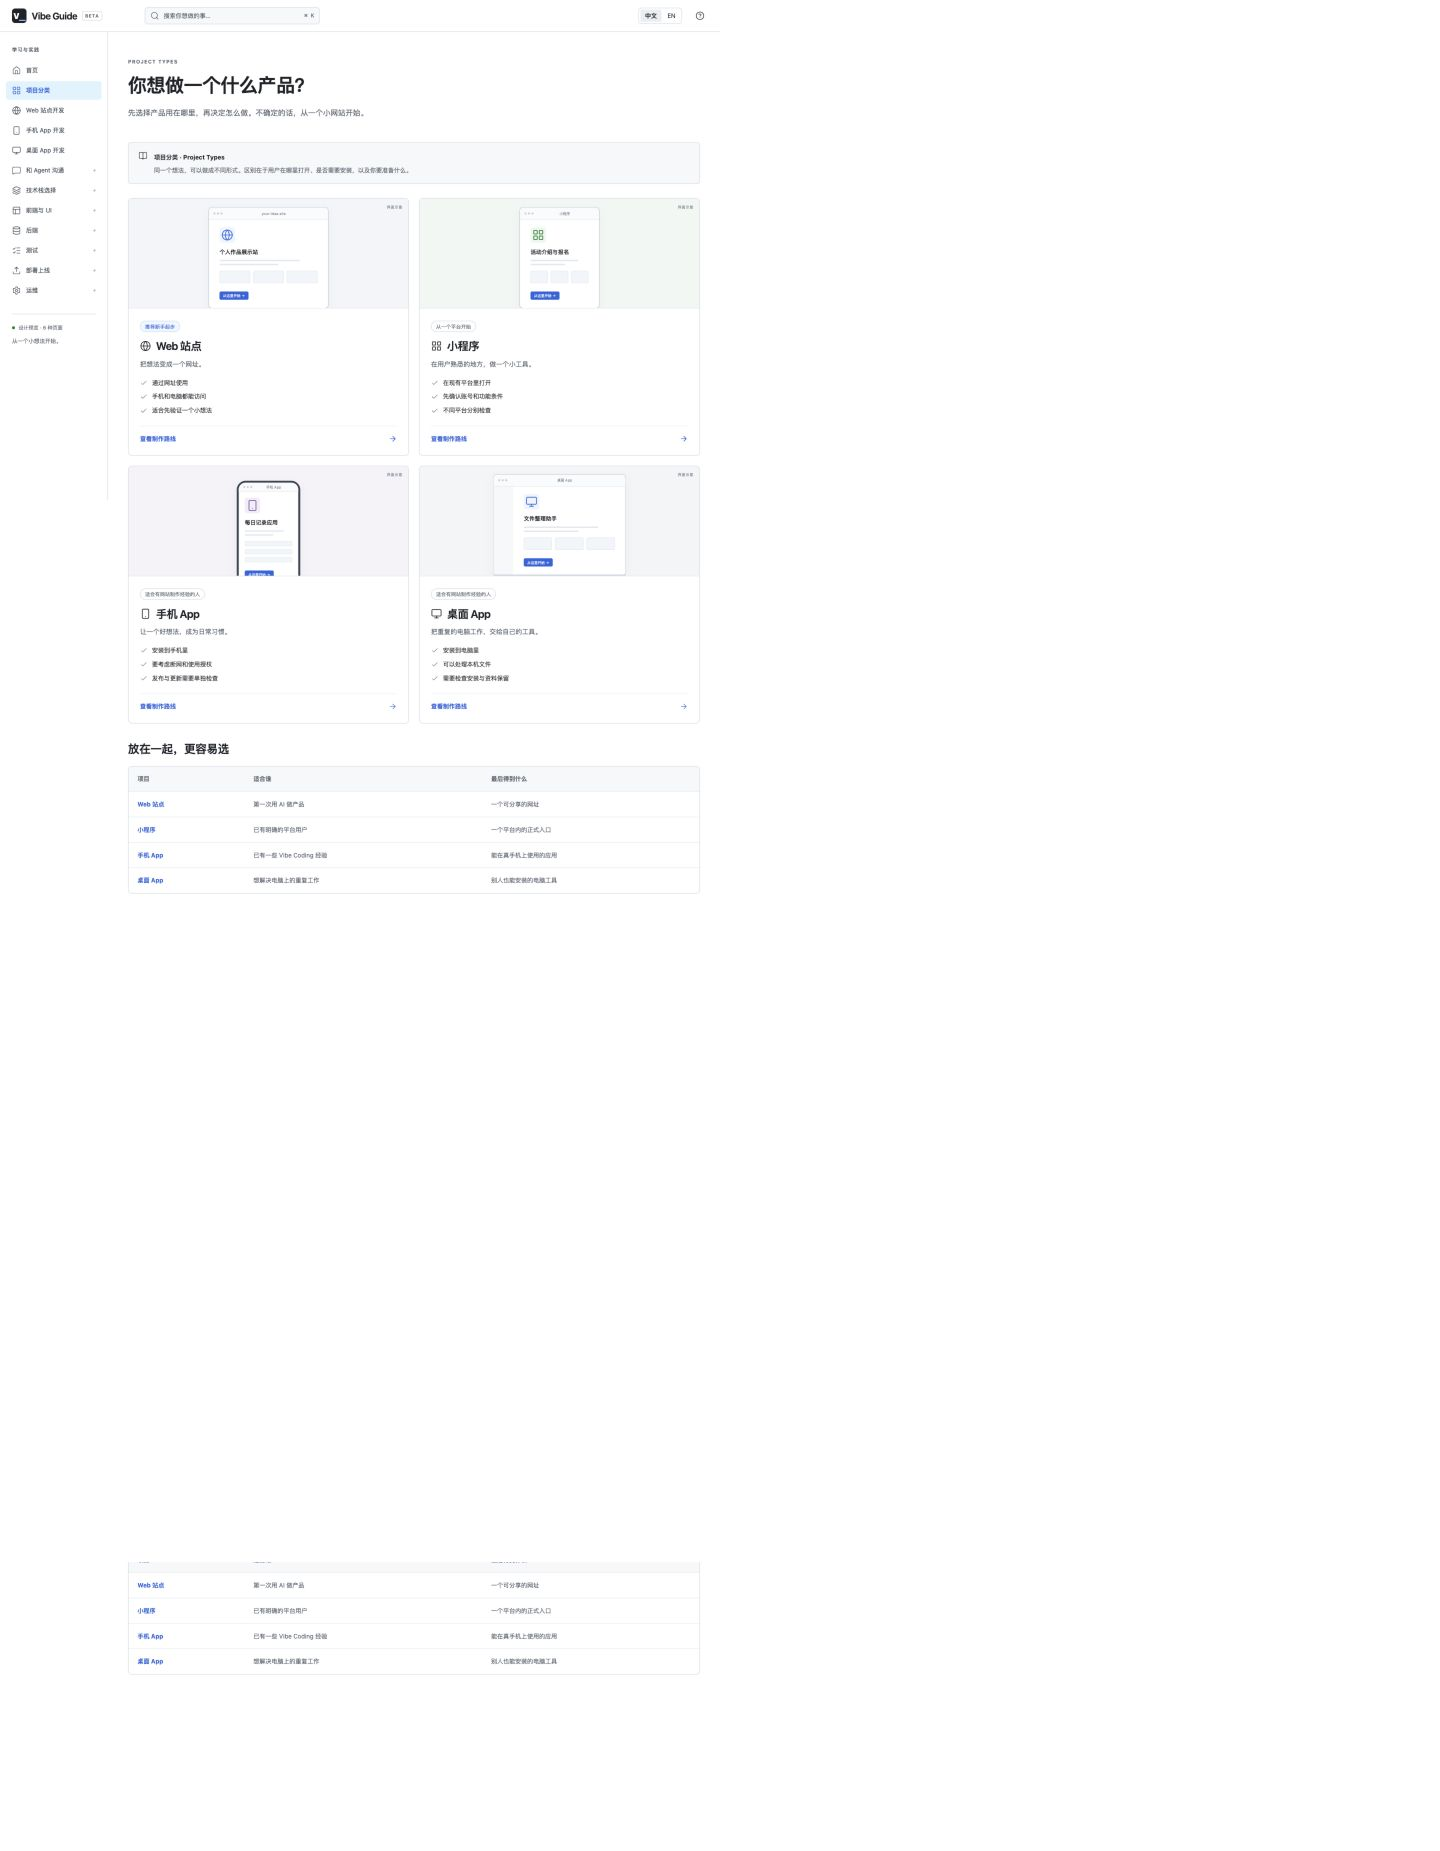
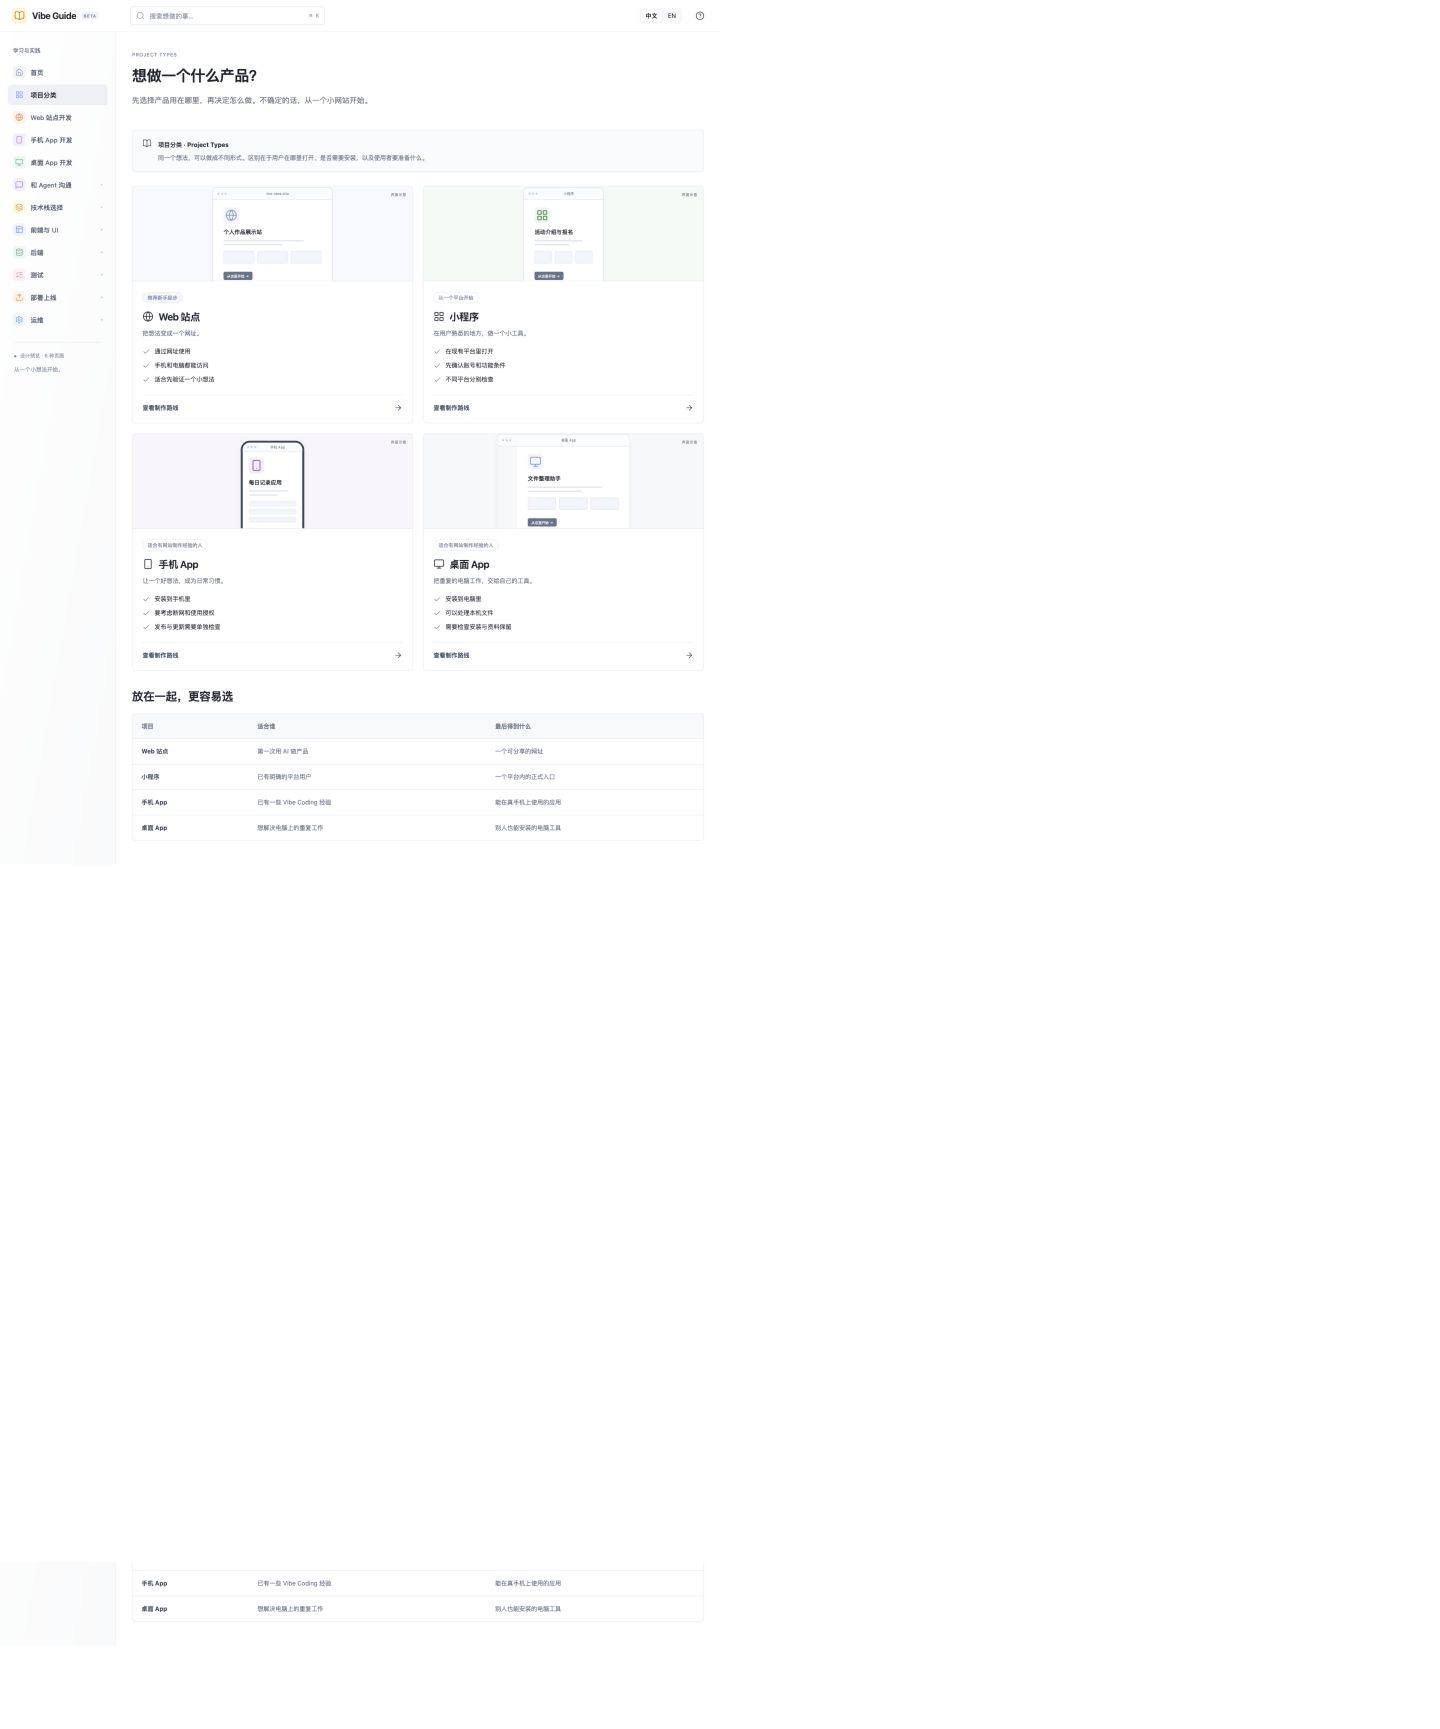
style: refine layout and brighten accents without selection rings

diff --git a/src/styles/refinement.css b/src/styles/refinement.css
@@ -1,0 +1,7 @@
+/* Reference-led refinement: soft chrome, colored glyphs, compact content. */
+:root{--line:#e8ebef;--soft:#f8f9fb;--muted:#667085;--blue:#374151;color:#20242c;font-family:-apple-system,BlinkMacSystemFont,"Segoe UI","PingFang SC","Microsoft YaHei",sans-serif}body{font-size:14px}.topbar{border-color:#eef0f3;height:64px}.top-inner{gap:20px}.brand{font-size:18px;letter-spacing:-.4px}.brand-mark{display:grid;place-items:center;background:#fff5d8;color:#b77913;border:1px solid #ffebae;border-radius:9px;width:30px;height:30px}.beta{font-size:8px;border:0;background:#f2f4f7;color:#7b8493}.header-search{background:#fff;border:1px solid #e1e5eb;box-shadow:inset 0 1px 3px #10182807;max-width:390px;padding:7px 11px;color:#8993a3;font-size:13px;margin-left:42px}.header-search kbd{color:#98a2b3}.languages{border:0;background:#f7f8fa;padding:3px;border-radius:6px}.languages a[aria-current]{background:#fff;box-shadow:0 1px 3px #10182812}.app-shell{grid-template-columns:232px minmax(0,1fr)}.sidebar{padding:28px 16px;background:linear-gradient(100deg,#fff,#f9fafb);border-color:#edf0f3}.nav-label{font-size:11px;letter-spacing:0;font-weight:500;color:#7a8595;padding:0 10px;margin-bottom:14px}.nav-item{font-size:12px;font-weight:450;gap:10px;padding:8px 10px;margin:4px 0;min-height:38px;color:#525d6d}.nav-item.active,.nav-item.active:hover{background:#eef0f4;color:#20242c;font-weight:600}.nav-item:hover{background:#f1f3f6}.nav-glyph{display:grid;place-items:center;width:25px;height:25px;border-radius:6px;background:#f1f4fa;color:#7e8da4;flex-shrink:0}.glyph-types,.glyph-ui{background:#eef3ff;color:#648cfa}.glyph-web,.glyph-launch{background:#fff2e8;color:#e28a42}.glyph-mobile,.glyph-agent{background:#f4eeff;color:#a27cdb}.glyph-desktop,.glyph-backend{background:#eaf8f3;color:#54ad8e}.glyph-stack{background:#fff7dd;color:#c5a043}.glyph-test{background:#fff0f3;color:#d77692}.glyph-ops{background:#edf5fc;color:#689bc3}.pending-dot{background:#bdc5d0;width:3px;height:3px}.nav-footer{margin-top:24px;border-color:#eaedf1;font-size:10px;color:#8a94a3}.nav-footer .status-dot{width:5px;height:5px;background:#91a18f}main{padding:28px 32px 48px}.eyebrow{letter-spacing:.6px;color:#8590a0;font-weight:500}h1,h2,h3{letter-spacing:-.025em}.journey-intro{padding:0 0 19px;max-width:850px}.journey-intro>.small{font-size:11px;color:#7b8594}.journey-intro h1{font-size:29px;font-weight:620;margin:12px 0}.journey-intro>p:last-child{font-size:13px;margin-bottom:9px;line-height:1.8}.journey-map{padding:18px 0 10px;border-color:#eef0f3}.route-heading h2{font-size:15px;font-weight:550}.route-heading>span{color:#8a94a3;font-size:10px}.route-legend{margin-top:13px;gap:10px 18px;color:#7a8595}.route-legend span:before{width:6px;height:6px}.blue{--stage-color:#7598e5;--stage-tint:#f0f5ff}.violet{--stage-color:#ab8bcd;--stage-tint:#f7f2fc}.amber{--stage-color:#c79d58;--stage-tint:#fff8ed}.green{--stage-color:#70ad99;--stage-tint:#eef9f4}.connected-route{margin-top:21px}.connected-route .route-nodes{grid-template-rows:repeat(3,103px);gap:18px 26px}.connected-route .node-index{height:34px;width:34px;border-radius:9px;border:1px solid color-mix(in srgb,var(--stage-color) 22%,white);margin-bottom:9px;box-shadow:0 1px 2px #10182805}.connected-route .route-node strong{font-size:11px;font-weight:500;color:#394150;padding:1px 3px;max-width:190px;line-height:1.7}.node-order{font:9px ui-monospace,SFMono-Regular,monospace;color:#9ba4b1;margin-right:5px}.connected-route .route-node small{font-size:9px;color:#8993a3;line-height:1.4}.connected-route .route-node.selected .node-index{background:var(--stage-tint);color:var(--stage-color);box-shadow:0 0 0 3px white,0 0 0 4px var(--stage-color)}.connected-route .route-node.selected strong{text-decoration:none;color:#111827;font-weight:650}.connected-route .route-node:hover strong{color:#111827;text-decoration:underline;text-underline-offset:4px}.route-lines{opacity:.72}.route-return{font-size:10px;line-height:1.8;color:#8a94a3;border-color:#edf0f3;padding-top:10px}.stage-workspace{margin-top:23px}.stage-heading{gap:12px;margin-bottom:20px}.stage-number{font-size:24px;color:#c0c7d0}.stage-heading h2{font-size:19px;font-weight:580}.stage-heading .term{font-size:10px;color:#98a2b3}.stage-columns{gap:30px}.stage-actions{font-size:12px;line-height:1.8}.stage-columns h3{font-size:13px;font-weight:550}.stage-problem{padding-left:22px}.stage-problem p{font-size:12px;line-height:1.85}.stage-problem h3{font-size:13px}.stage-output p{font-size:12px}.stage-output svg{color:#6d9e85}.stage-template{background:#fafbfc;border:1px solid #e8ebef;border-radius:6px;padding:15px 18px;margin-top:22px;box-shadow:0 1px 2px #10182804}.stage-template>p{font-size:12px;line-height:1.9;color:#525d6d}.stage-template h3{font-weight:500}.copy-inline{color:#667085}.copy-inline:hover{color:#111827}.stage-module-links{font-size:11px}.stage-module-links a,.stage-module-links button{color:#596475}.stage-pagination{color:#596475;font-size:11px}.button{border-color:#e4e7ec;border-radius:6px;background:#fff;box-shadow:0 1px 2px #10182806;font-weight:500}.button.primary{background:#202733;border-color:#202733}.button.primary:hover{background:#374151}.text-link{color:#46546b}.badge{border-color:#e8ebef;font-size:10px;color:#758195}.badge.blue{background:#f4f7fc;color:#63789f;border-color:#e5eaf3}.project-card,.module-card,.aside-card,.prompt-box,.steps,.table-scroll{border-color:#e9ecf1;box-shadow:0 1px 2px #10182805}.project-card:hover{border-color:#cdd4df}.project-card-body{padding:20px}.project-card h2{font-size:20px}.project-card-body>p,.feature-list li{font-size:12px}.project-visual{background:#f8f9fc;height:190px}.mini-program{background:#f5faf7}.mobile{background:#f8f6fb}.desktop{background:#f6f8fa}.mock-window{border-color:#dce2ea;box-shadow:0 3px 9px #10182806}.mock-action{background:#65738a}.mock-symbol{color:#7998c5;background:#f2f6fc}.page-intro h1{font-size:30px}.detail-hero h1{font-size:28px}.anchor-nav a:first-child{color:#374151;border-color:#697586}.callout{background:#fafbfc;border-color:#e9ecf1}.example-box{background:#fafbfc;border-left-color:#c3cbd7}.segmented{border-color:#e5e9ef;border-radius:6px}.segmented button[aria-pressed=true]{background:#f0f2f5;color:#374151}.prompt-heading{background:#fafbfc}.outcome{background:#f6faf7;color:#597865}.skip-link:focus{border-color:#627596}button:focus-visible,a:focus-visible,input:focus-visible,summary:focus-visible{outline-color:#758caf}
+@media(max-width:1199px){main{padding:26px 25px}.header-search{margin-left:20px}}@media(max-width:959px){.app-shell{display:block}.header-search{max-width:270px;margin-left:auto}.top-inner{gap:12px}.journey-intro h1{font-size:27px}}@media(max-width:639px){main{padding:22px 16px 36px}.top-inner{gap:8px}.header-search{width:30px;border:0;box-shadow:none;padding:5px}.brand{font-size:16px}.journey-intro h1{font-size:25px}.journey-intro>p:last-child{font-size:12px}.connected-route .route-nodes{grid-template-rows:repeat(6,118px);gap:17px 24px}.connected-route .route-node strong{font-size:11px}.connected-route .route-node small{font-size:8px}.route-legend{font-size:9px;gap:8px 12px}.stage-heading h2{font-size:18px}.stage-columns{gap:20px}.stage-problem{padding-left:0}.detail-hero h1{font-size:25px}.page-intro h1{font-size:27px}}
+/* Keep core reading text comfortably legible at normal browser zoom. */
+.nav-item{font-size:13px}.connected-route .route-node strong{font-size:12px}.stage-actions,.stage-problem p,.stage-template>p{font-size:13px}.stage-output p{font-size:13px}@media(max-width:639px){.connected-route .route-node strong{font-size:11px}}
+/* Bright category accents; selected nodes have no border or outer ring. */
+.blue{--stage-color:#2563eb;--stage-tint:#eaf1ff}.violet{--stage-color:#8b5cf6;--stage-tint:#f2ecff}.amber{--stage-color:#f28c18;--stage-tint:#fff3df}.green{--stage-color:#10a875;--stage-tint:#e5f8f0}.route-lines{opacity:1}.connected-route .node-index{border:0;box-shadow:none}.connected-route .route-node.selected .node-index{background:var(--stage-color);color:#fff;border:0;box-shadow:none}.connected-route .route-node.selected strong{font-weight:650}.glyph-types,.glyph-ui{background:#eaf1ff;color:#3478f6}.glyph-web,.glyph-launch{background:#fff1e3;color:#f28c18}.glyph-mobile,.glyph-agent{background:#f2ecff;color:#8b5cf6}.glyph-desktop,.glyph-backend{background:#e5f8f0;color:#10a875}.glyph-stack{background:#fff5d6;color:#c98b00}.glyph-test{background:#ffeaf2;color:#ed4e8a}.glyph-ops{background:#e7f5ff;color:#168ed1}

diff --git a/docs/design-system.md b/docs/design-system.md
@@ -142,3 +142,7 @@ GitHub 以仓库产品界面为参考，不采用官网营销首屏。Hugging Fa
 ## 当前首页主线：产品制作节点图
 
 用户进一步明确：首页以“想法 → 需求文档 → 开发文档 → 页面与操作 → 开发 → 测试 → 部署上线 → 维护”组织，不以说教文章或重复栏目目录为主。每站提供操作、产出、常见障碍与答案、可复制提示词，以及下一站入口。专业术语配白话解释。UI 组件词典归属页面与交互节点的组件分支，原 HTML 是该分支的资料和体验基线。节点可用地址锚点直达；中英文切换保留节点。现阶段为可交互路线预览，完整子模块和旧词典迁移仍需继续实施。本方案替代此前首页内容排列。
+
+## 当前视觉修订
+
+参考提供的 Hugging Face 截图：紧凑标题与辅助信息、淡边框、小面积彩色图标。节点与侧栏使用鲜明蓝 #2563eb、紫 #8b5cf6、橙 #f28c18、绿 #10a875；正文保持深灰。节点选中使用实色图标底色与标题字重，禁止添加选中外圈、边框或外发光。键盘 focus-visible 保留可访问性轮廓，与点击选中态分开。当前实现见 `src/styles/refinement.css`。

diff --git a/docs/preview-review.md b/docs/preview-review.md
@@ -50,3 +50,7 @@
 验证：类型检查 0 errors/warnings/hints，构建和页面验证通过；发布页面禁用文案检查及板块覆盖检查通过。浏览器确认选型内容、计划产出、复制成功、中英切换保持计划节点；320px 英文无横向溢出，跨行连线连续；1440px 英文十二节点及十一连线、无溢出。中英首页和中文手机截图已更新；其他分类详情旧截图仍为之前版本的文案，不作为当前全站措辞证据。
 
 完整资料仍分阶段制作，准备中入口保留显式状态。下一步补齐各节点的具体材料与旧组件词典迁移，遵守当前文案与映射规则。
+
+## 当前视觉：鲜明图标、无选中外圈
+
+全站应用截图参考后的紧凑样式；按后续反馈增强蓝紫橙绿，选中图标无边框和外圈（浏览器确认 border 0px、shadow none）。中文首页与路线图截图更新为当前配色。构建、页面规则检查通过。其余截图可能记录此前配色，以实时站点为准。
